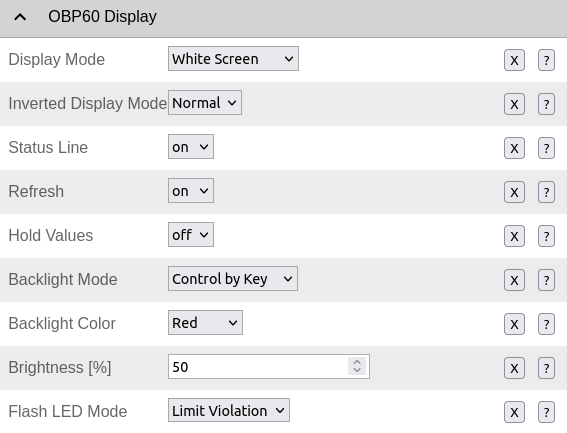
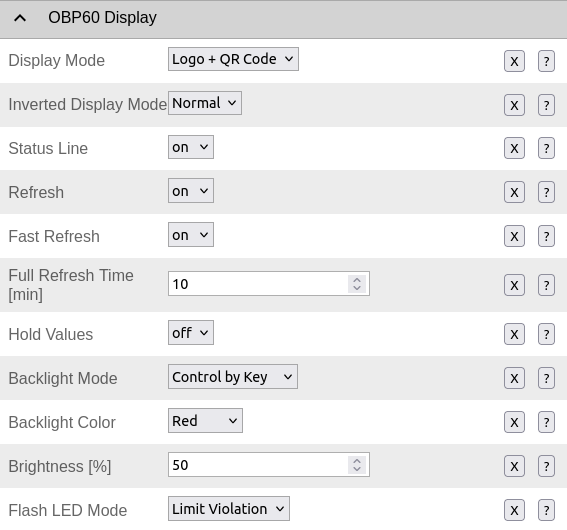
Add new display settings

diff --git a/docs/usermanual/configuration.rst b/docs/usermanual/configuration.rst
@@ -617,6 +617,16 @@ Der Bereich **Display** enthält alle Einstellungen, die das Display betreffen.
 .. note::
     Die Entstehung von Geisterbildern ist von der Display-Temperatur des OBP60 abhängig. Bei tiefen Temperaturen sind Geisterbilder deutlicher zu sehen und die Anzeige reagiert träger als bei höheren Temperaturen. Kurz nach dem Einschalten wird für die ersten 5 Minuten jede Minute ein Voll-Refresh durchgeführt, damit sich das Display akklimatisieren kann. Bei extrem großer Sonneneinstrahlung kann es vorkommen, dass der Kontrast des Display-Inhaltes verloren geht. Schwarze Anzeigebereiche werden dann nur noch grau dargestellt. Das Display ist in diesem Fall nicht defekt. Nach einem Voll-Refresh regeneriert sich das Display und der Kontrast wird wieder vollständig hergestellt.
     
+**Fast Refresh**
+    * ``on`` - Bei aktiviertem Fast Refresh wird eine Voll-Refresh schneller ausgeführt. Es werden weniger Schwarz-Weiß-Wechsel durchgeführt.
+    * ``off`` - Bei deaktiviertem Fast Refresh wird eine Voll-Refresh langsamer ausgeführt, weil mehr Schwarz-Weiß-Wechsel durchgeführt werden.
+    
+**Full Refresh Time**
+    * Über Full Refresh Time kann festgelegt werden nach welcher Zeit ein regelmäßiger Voll-Refresh durchgeführt wird. Full Refreshes sind für das e-Paper Display wichtig, da das Display nach einer gewissen Zeit mit partiellen Updates einen Voll-Refresh zur Erholung durchführen muss, um die Displayfunktionalität zu erhalten. Bei einem Voll-Refresh wird der Displaykontrast wieder vollständig hergestellt.
+    
+.. note::
+    Bei starker Sonneneinstrahlung kann je nach verwendetem Displaytyp ein Kontrastverlust nach einiger Zeit auftreten. Um den Effekt zu minimieren, sollte der **Fast Refresh** deaktiviert werden und die **Full Refresh Time** auf 1 min gesetzt sein. Der Erholungseffekt ist für das Display dadurch wesentlich stärker.
+    
 **Hold Values**
     * ``on`` - Anzeigewerte werden gehalten, wenn die Datenverbindung kurzzeitig fehlen sollte und die Daten nicht aktualisiert werden können. Diese Einstellung kann bei TCP-Verbindungen über WiFi nützlich sein. 
     * ``off`` - Anzeigewerte werden nicht gehalten. Bei unterbrochener Datenverbindung länger als 5 s werden fehlende Daten mit ``---`` gekennzeichnet.
